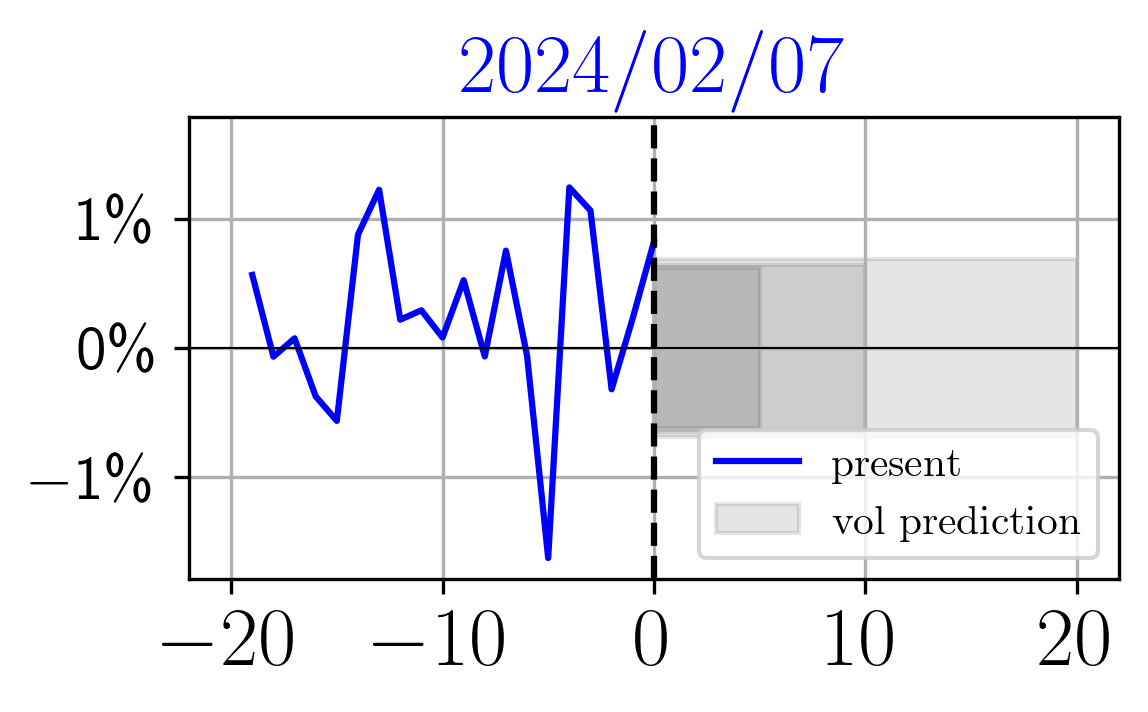
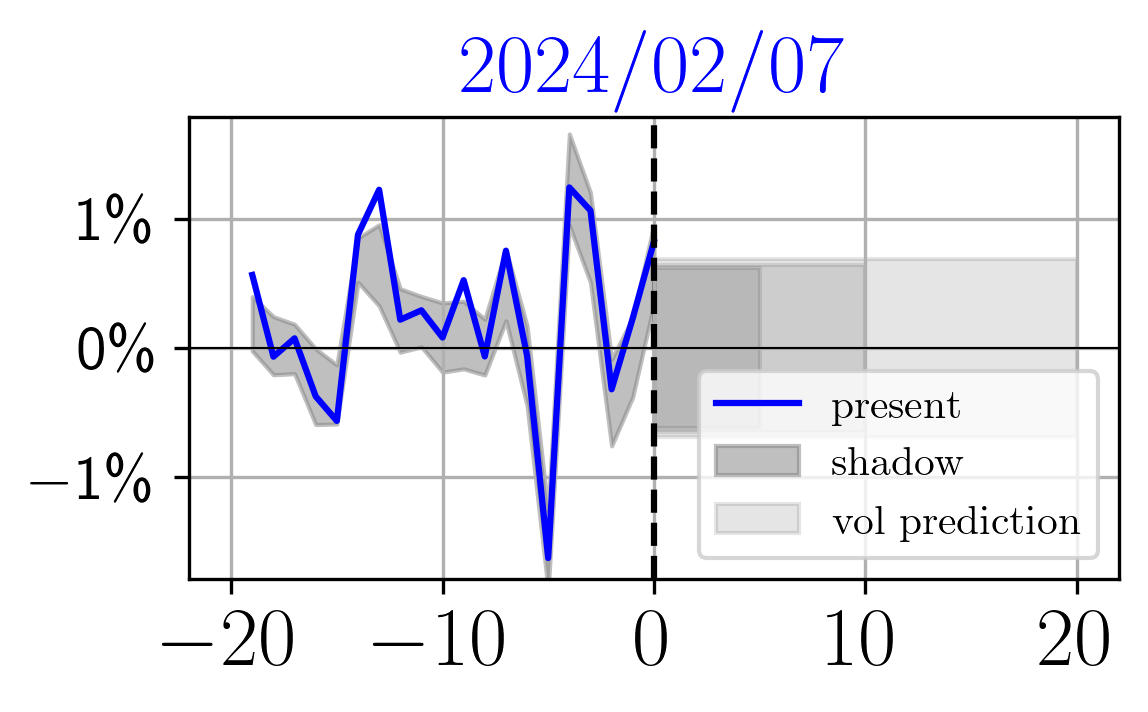
- improved README - improved the way the volatility is plotted

diff --git a/shadowing/plot_utils.py b/shadowing/plot_utils.py
@@ -99,7 +99,17 @@ def plot_shadow(
         plt.title(r'$\mathrm{' + date.strftime('%Y/%m/%d') + '}$', fontsize=20, color=color)
 
 
-def plot_volatility(dlnx_current, standard_dev, Ts, date=None, color='blue', color_vol='black'):
+def plot_volatility(
+    dlnx_current: np.ndarray, 
+    standard_dev: np.ndarray, 
+    Ts: list | np.ndarray, 
+    distances: np.ndarray, 
+    close_paths: np.ndarray, 
+    eta: float, 
+    date=None, 
+    color='blue', 
+    color_vol='black'
+) -> None:
     """ Plot the predicted volatility vols of the current history dlnx_current
     
     :param dlnx_current: 1d array, the current log-return time-sries
@@ -107,15 +117,26 @@ def plot_volatility(dlnx_current, standard_dev, Ts, date=None, color='blue', col
     :param Ts: list of int, the horizons of the predicted volatilities
     :param date: pandas datetime, the date of the current log-return time-series
     :param color: str, the color of the current time-series
+    :param color_vol: str, the color of the predicted volatilities
     . """
 
     # infer horizon
     w_past = dlnx_current.shape[-1]
-    horizon = max(Ts)
+    horizon = close_paths.shape[-1] - w_past
+
+    # the proba used to average 
+    proba = Softmax(distances=distances, eta=eta)
+    mean = proba.avg(close_paths, axis=0)[0,:]
+    std = proba.std(close_paths, axis=0)[0,:]
+    
+    # the shadow lower-bound and upper-bound
+    lower_bound = mean - std
+    upper_bound = mean + std
 
     # plot 
     plt.figure(figsize=(4,2))
     plt.plot(np.arange(-w_past+1,1), dlnx_current, color=color, label=r'$\mathrm{present}$')
+    plt.fill_between(np.arange(-w_past+1,1),lower_bound[:w_past], upper_bound[:w_past], color='gray', alpha=0.5, label=r'$\mathrm{shadow}$');
     for i_T, T in enumerate(Ts):
         label = r'$\mathrm{vol~prediction}$' if i_T == 0 else None
         plt.fill_between(np.arange(T+1), -standard_dev[i_T], standard_dev[i_T], color=color_vol, alpha=0.1, label=label)

diff --git a/README.md b/README.md
@@ -1,8 +1,8 @@
 # Path Shadowing Monte Carlo
 
-Implements Path Shadowing Monte-Carlo [1], which can be used for volatility prediction and option pricing.
+Implements Path Shadowing Monte Carlo [1], which can be used for volatility prediction and option pricing.
 
-This methods averages future quantities over generated price paths (grey) whose past history matches, or `shadows', the actual observed history (red).
+This methods averages future quantities over generated price paths (grey) whose past history matches, or `shadows', the actual observed history (blue).
 
 For a quick start, see `tutorial.ipynb`
 
@@ -10,7 +10,7 @@ For a quick start, see `tutorial.ipynb`
     <img src="./illustration/anim_shadowing.gif" alt="animated" width="400px"/>
 </p>
 <p align="center">
-    <b>Path Shadowing: find close paths in a generated dataset.</b>
+    <b>Path Shadowing: finding close paths in a generated dataset.</b>
 </p>
 
 
@@ -21,15 +21,13 @@ The code requires python>=3.10. Run the commands below to install the required p
 git clone https://github.com/RudyMorel/shadowing
 cd shadowing/
 python -m venv ~/venvs/shadowing
+source ~/venvs/shadowing/bin/activate
 pip install -r exact_requirements.txt
 ```
 
 ## Path Shadowing 
 
-On a given date, path shadowing involves scanning over generated price paths whose past history matches, 
-or `shadows`, the actual observed past history (blue in the GIF above).
-Generated price paths can be obtained in a Scattering Spectra model [2] 
-with the script `snp_generation.py`
+On a given date, path shadowing involves scanning through generated price paths whose past history matches, or shadows, the actual observed past history (blue). These generated price paths can be produced using the Scattering Spectra model [2] with the script snp_generation.py.
 
 
 ```python
@@ -64,7 +62,7 @@ plot_shadow(dlnx_current, distances[0,:], close_paths[0,:,:,:], eta=0.09, date=s
 ```
 
 <div align="center">
-    <img src="illustration/shadowing.png" alt="Shadow of a path">
+    <img src="illustration/shadowing.png" alt="Shadow of a path" width="400px"/>
 </div>
 <p align="center">
     <b>Shadow of a path.</b>
@@ -98,16 +96,16 @@ plot_volatility(dlnx_current, (vols[-1,:] / 252) ** 0.5, Ts, date=snp.dts[-1], c
 ```
 
 <div align="center">
-    <img src="illustration/vol_prediction.png" alt="Volatility prediction" title="Volatility prediction" width="500">
+    <img src="illustration/vol_prediction.png" alt="Volatility prediction" title="Volatility prediction" width="400px"/>
 </div>
 <p align="center">
-    <b>Volatility prediction obtained through Path Shadowing Monte Carlo.</b>
+    <b>Volatility prediction obtained with Path Shadowing Monte Carlo.</b>
 </p>
 
 ## Option pricing 
 
 In the same way, one can price options on the collected close paths through 
-Hedge Monte-Carlo [3]
+Path Shadowing (hedged) Monte Carlo [3]
 
 ```python
 from scatspectra import Softmax, PriceData, compute_smile
@@ -130,7 +128,7 @@ plt.xlabel(r"$\mathcal{M}$", fontsize=20);
 ```
 
 <p align="center">
-    <img src="./illustration/smile.png" alt="Conditional smile" title="Conditional smile" width="500">
+    <img src="./illustration/smile.png" alt="Conditional smile" title="Conditional smile" width="400px"/>
 </p>
 <p align="center">
     <b>Option smile obtained through Path Shadowing (hedged) Monte Carlo.</b>
@@ -139,20 +137,13 @@ plt.xlabel(r"$\mathcal{M}$", fontsize=20);
 See `tutorial.ipynb` for more advanced examples.
 
 
-# Generation 
-
-The paper uses the Scattering Spectra [2] to generate the dataset of time-series.
-
-[1] "Path Shadowing Monte-Carlo"
-
+[1] "Path Shadowing Monte Carlo" \
 Rudy Morel et al. - https://arxiv.org/abs/2308.01486
 
-[2] "Scale Dependencies and Self-Similar Models with Wavelet Scattering Spectra"
-
+[2] "Scale Dependencies and Self-Similar Models with Wavelet Scattering Spectra" \
 Rudy Morel et al. - https://arxiv.org/abs/2204.10177
 
-[3] "Hedged Monte-Carlo: low variance derivative pricing with objective probabilities"
-
+[3] "Hedged Monte-Carlo: low variance derivative pricing with objective probabilities" \
 M. Potters, J.-P. Bouchaud, D. Sestovic - https://arxiv.org/abs/cond-mat/0008147
 
 
